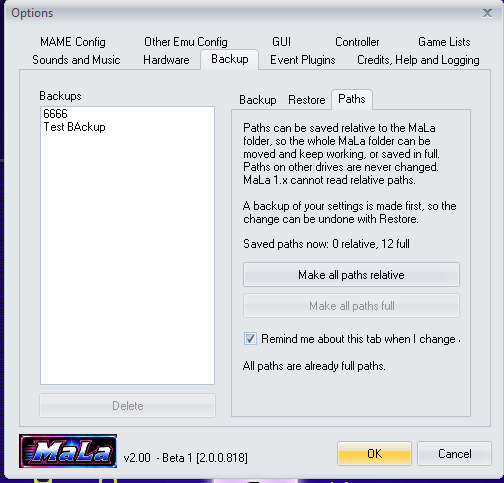
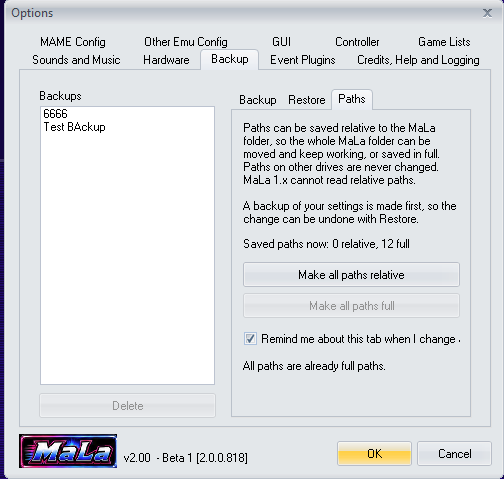
More WIP

diff --git a/wip.html b/wip.html
@@ -39,6 +39,7 @@ MaLa v2.0 Beta 1 testing is now underway with an initial group of testers, and t
 <li>Complete rebuild in <strong>Delphi 13</strong> — modern compiler, modern codebase</li>
 <li><strong>Built to be backward compatible</strong> &mdash; your existing v1.74 configs, layouts and <strong>.mplugin plugins</strong> are designed to carry straight over</li>
 <li>Your existing v1.74 settings are <strong>automatically backed up</strong> before any migration changes are made</li>
+<li><strong>Portable install</strong> &mdash; save MaLa's paths relative to its own folder (Options &rarr; Backup &rarr; Paths) so the whole MaLa folder can be moved to another folder or drive and keep working. Your settings are backed up first, and you can switch back to full paths at any time. Paths on other drives are left as they are, and MaLa 1.x can't read relative paths.</li>
 <li>Target platform: <strong>Windows 10 and Windows 11</strong>, including 64-bit Windows; MaLa remains a <strong>32-bit application</strong></li>
 <li>Improved stability and crash resistance throughout</li>
 <li>Works with <strong>current MAME</strong> &mdash; no more "0 games found"; game lists build from any modern MAME <code>-listxml</code> output, old or new, and MaLa detects a MAME version change and offers to rebuild</li>
@@ -63,7 +64,7 @@ MaLa's layouts and gameplay screens are staying visually the same by design &mda
 <img src="images/wip-event-plugins.png" alt="MaLa Options - Event Plugins tab" style="max-width:100%;border:1px solid var(--border);margin-top:1rem;display:block;filter:saturate(.9)" onerror="this.style.display='none'">
 <p style="font-size:.78rem;color:var(--text-dim);margin-bottom:1rem">Options &rarr; Event Plugins: untick a plugin to disable it, and see which events each plugin supports.</p>
 <img src="images/wip-backup-paths.png" alt="MaLa Options - Backup, Paths tab" style="max-width:100%;border:1px solid var(--border);margin-top:1rem;display:block;filter:saturate(.9)" onerror="this.style.display='none'">
-<p style="font-size:.78rem;color:var(--text-dim);margin-bottom:1rem">Options &rarr; Backup &rarr; Paths (in development): choose whether MaLa saves its paths relative to the MaLa folder or in full. Your settings are backed up first, so the change can be undone.</p>
+<p style="font-size:.78rem;color:var(--text-dim);margin-bottom:1rem">Options &rarr; Backup &rarr; Paths: choose whether MaLa saves its paths relative to the MaLa folder or in full. Your settings are backed up first, so the change can be undone.</p>
 <div class="info-box" style="border-color:rgba(0,255,136,.4);background:rgba(0,255,136,.05);margin-top:1.5rem">
 <span class="info-label" style="color:var(--neon-g)">► WHAT'S NEXT</span>
 Planned for 2.0 Final: the rebuilt companion tools, launch buttons in MaLa's Options dialog, and a report of missing artwork and videos. Potentially coming in 2.1: a second-screen LCD marquee panel and multiple languages.
